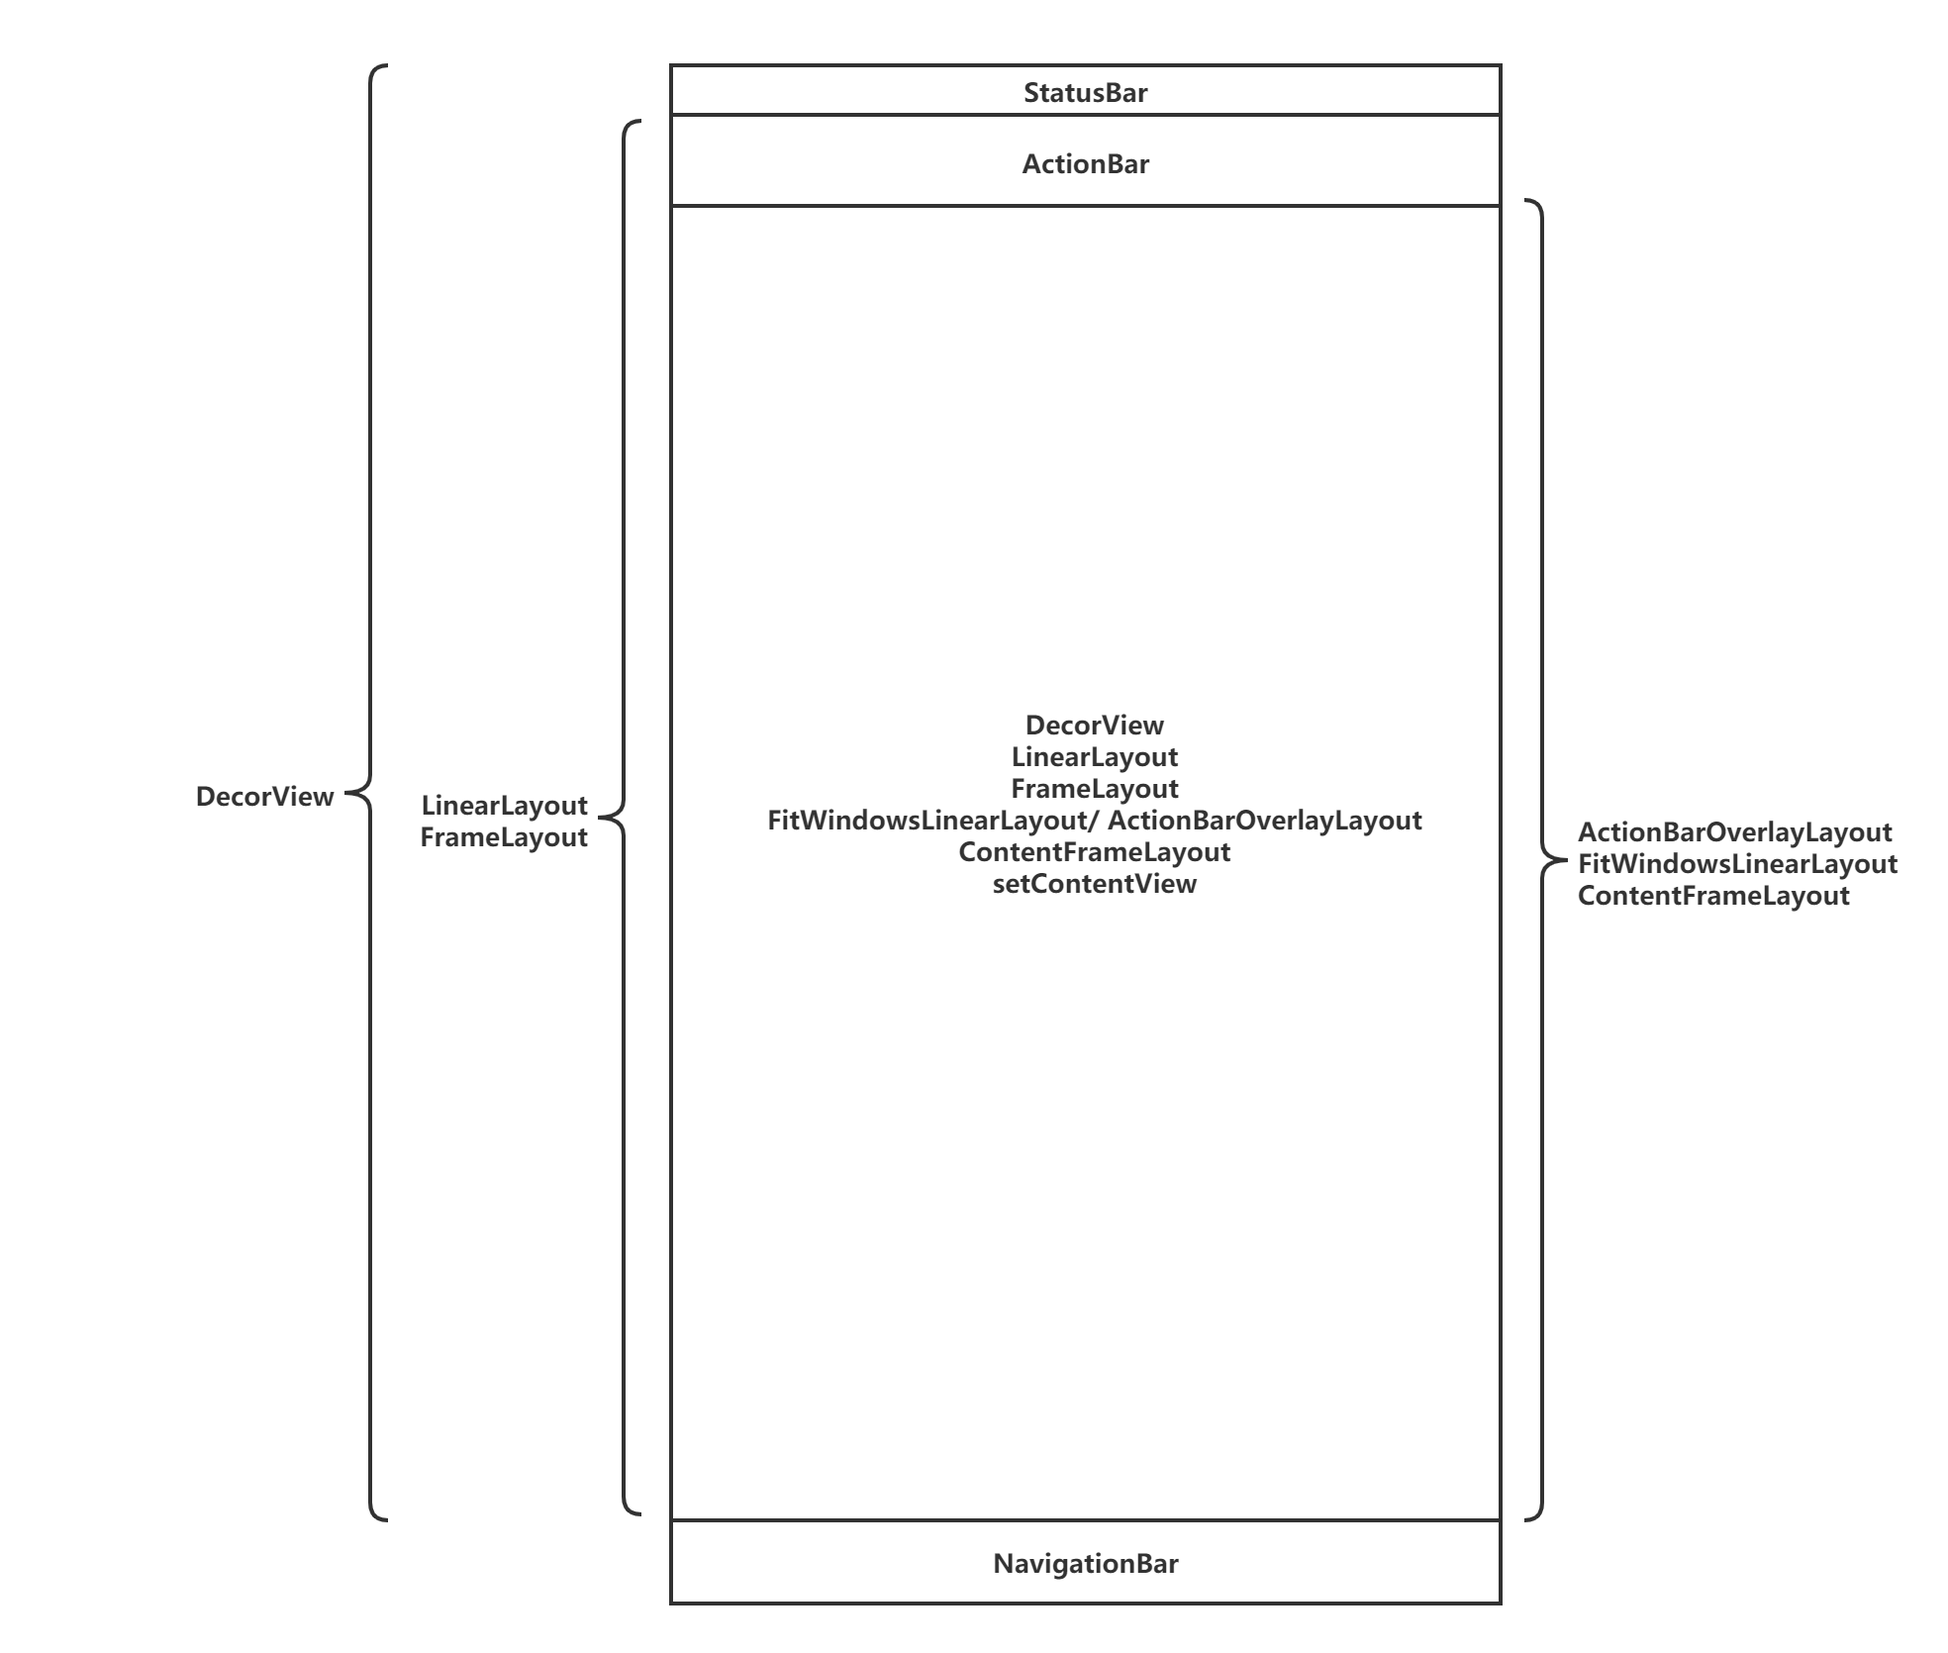
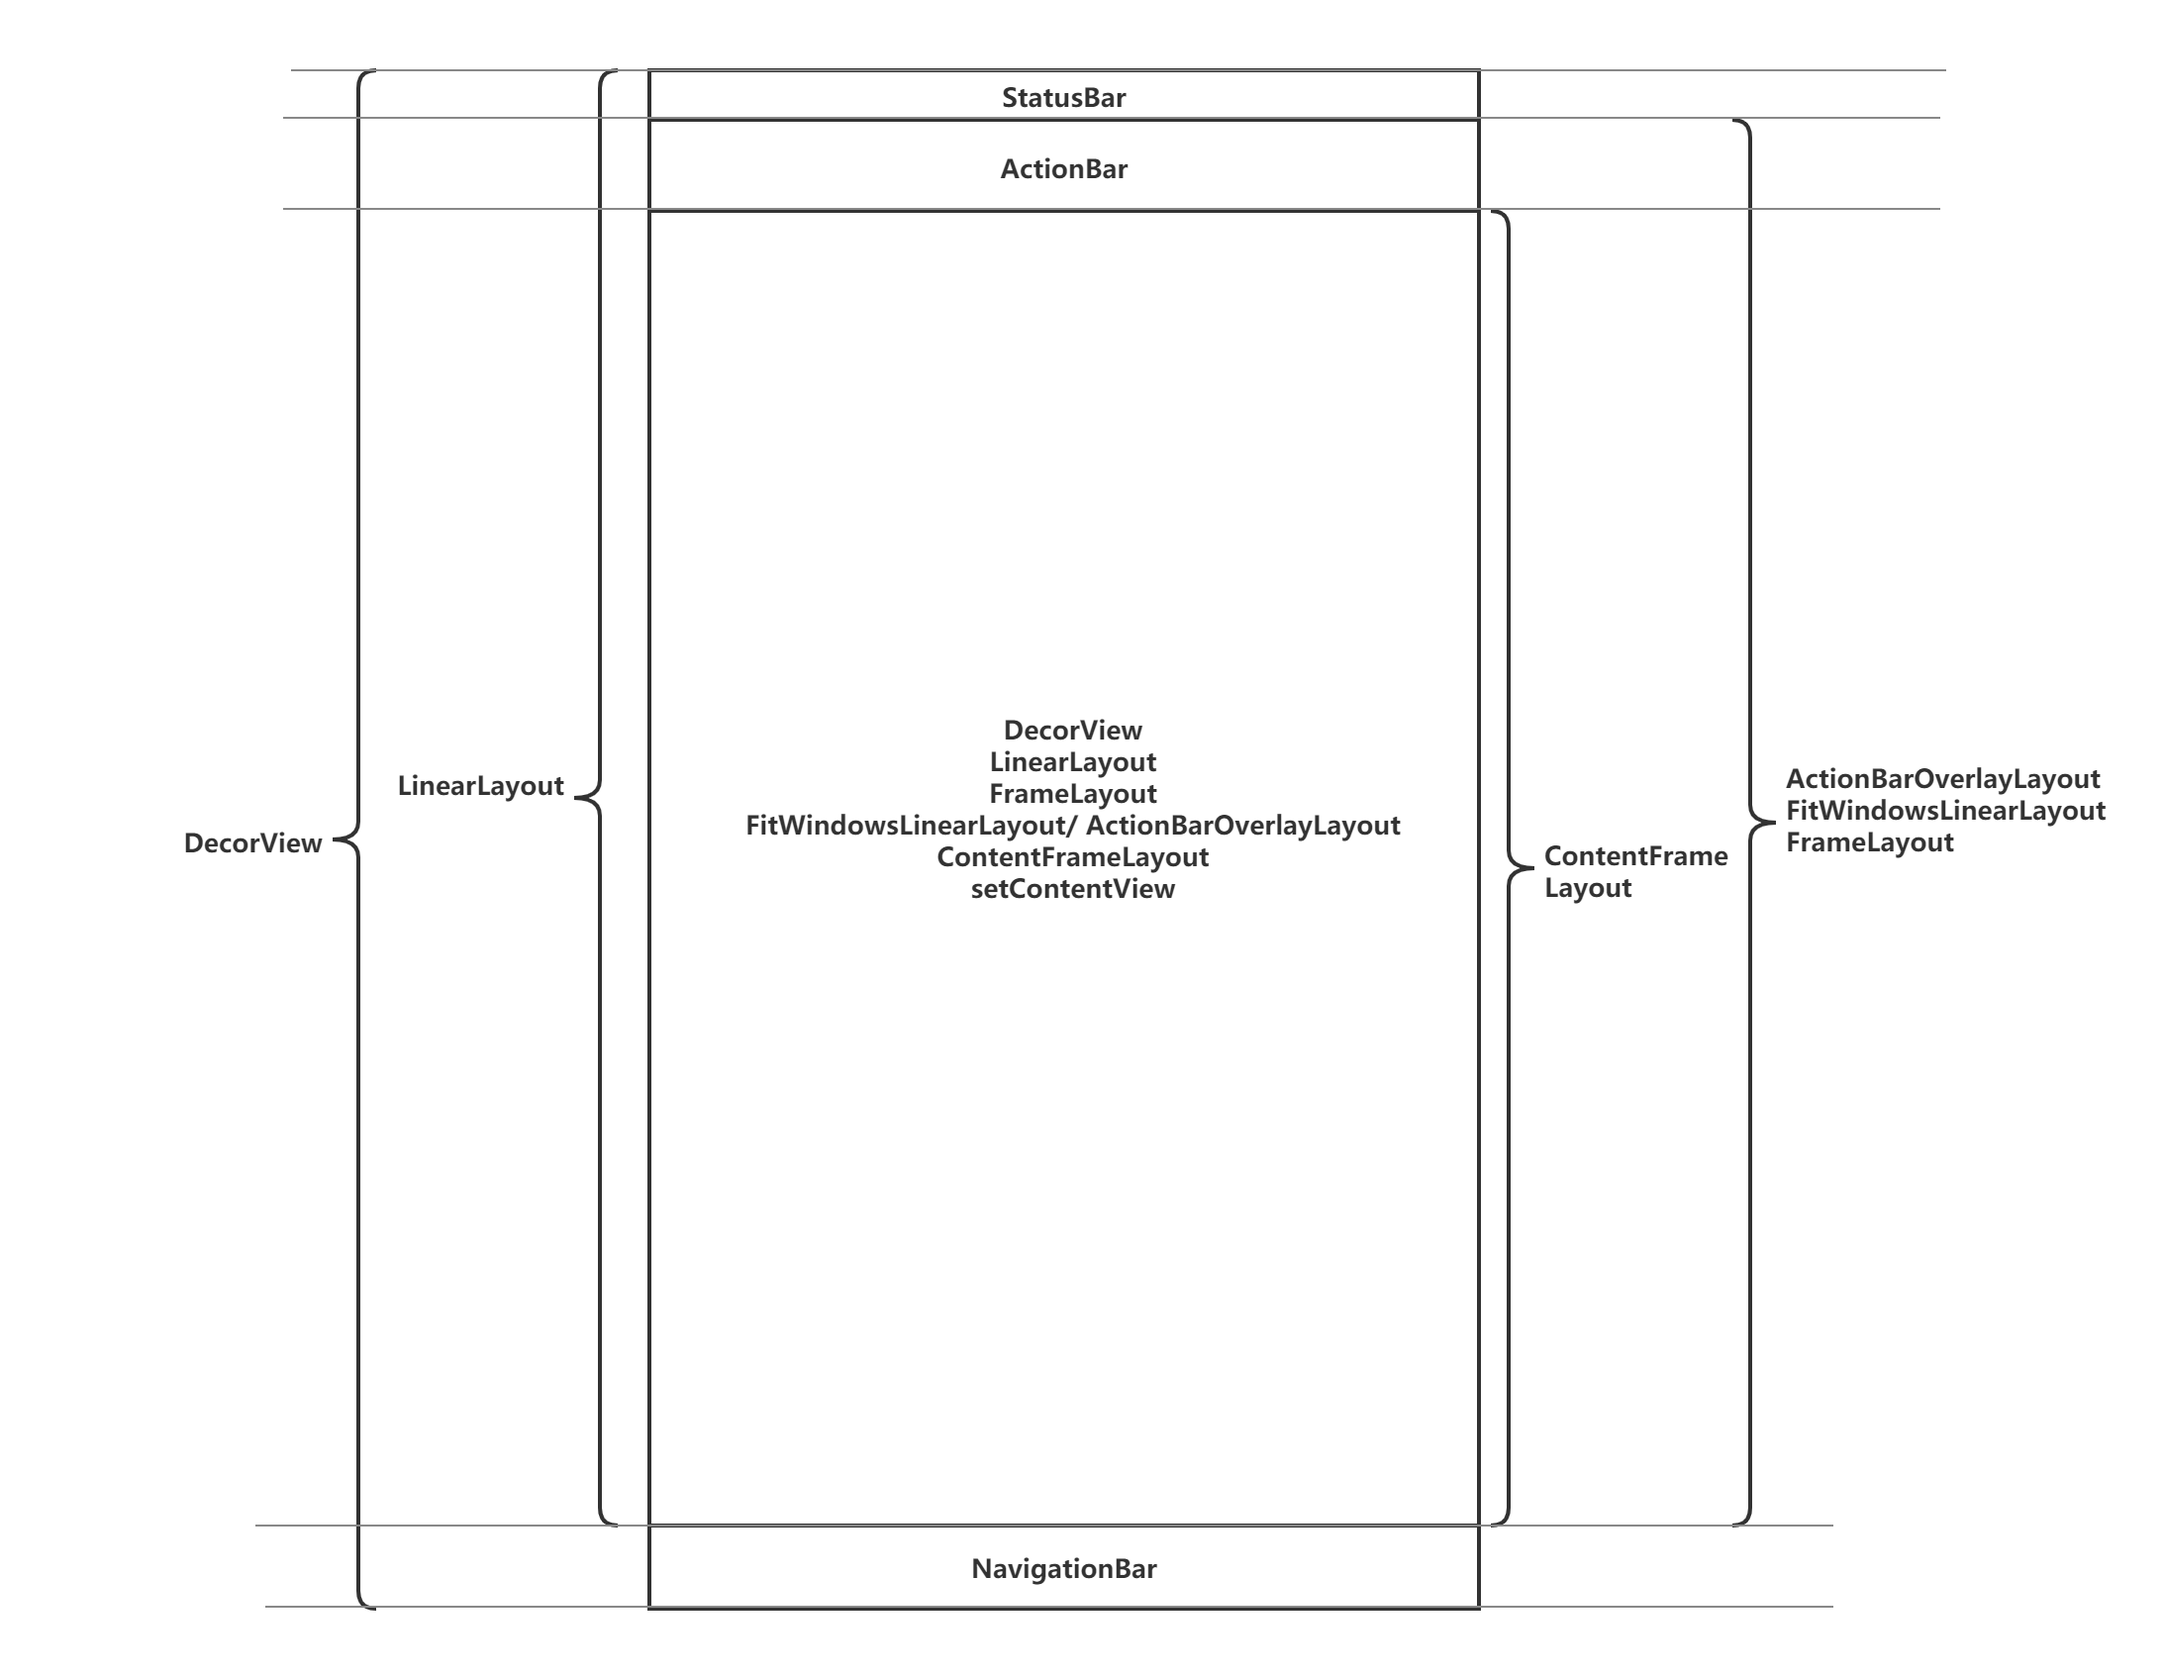
sync

diff --git a/_posts/android/面试合集/four-major-components/2021-4-27-Activity.md b/_posts/android/面试合集/four-major-components/2021-4-27-Activity.md
@@ -8,13 +8,6 @@ tags: [Android,Activity]
 ## Activity
 ![生命周期](http://hi.csdn.net/attachment/201109/1/0_1314838777He6C.gif)
 [生命周期](https://blog.csdn.net/xiajun2356033/article/details/78741121)
-* onCreate
-* setContentView
-* LifecycleObserver onCreate
-* onStart
-* onPostCreate
-* activeCou
-* onResume
 
 ## 关于Application.activityLifecycleCallbacks.onCreate  Lifecycle.onCreate 和 MyAcitivity.onCreate 的调用顺序
 
@@ -68,18 +61,20 @@ Activity.performCreate{
 
 ```
 
-## Activity 视图层
+## Activity 视图层级结构
 
 ![Activity 视图层](https://github.com/ooftf/ooftf.github.io/blob/master/images/AndroidViewLayer.png?raw=true)
 
-* Activity.setContentView
-* androidx.appcompat.widget.ContentFrameLayout
-* androidx.appcompat.widget.ActionBarOverlayLayout/androidx.appcompat.widget.FitWindowsLinearLayout
-  
-  如果有ActionBar 就会使用 ActionBarOverlayLayout ，如果没有 ActionBar 使用的是 FitWindowsLinearLayout
-* android.widget.FrameLayout
-* android.widget.LinearLayout
-* com.android.internal.policy.DecorView
+#### Android 10 1440*3200 小米手机 展示 NavigationBar 状态下
+|名字|坐标|描述|
+|--|--|--|
+|ContentFrameLayout|[0,333][1440,3048]|android.R.id.content|
+|ActionBarOverlayLayout|[0,137][1440,3048]|ActionBar 主题|
+|FitWindowsLinearLayout|[0,137][1440,3048]|NoActionBar 主题|
+|FrameLayout|[0,137][1440,3048]|
+|LinearLayout|[0,0]  [1440,3048]|
+|DecorView|[0,0]  [1440,3200]|
+|android.view.ViewRootImpl||
 
 #### 启动模式
 1. standard

diff --git a/_posts/temp.md b/_posts/temp.md
@@ -1,0 +1,16 @@
+Android 10 1080*2340 模拟器
+ContentFrameLayout            [0,180][1080,2232]
+ActionBarOverlayLayout        [0,54] [1080,2232]
+FrameLayout                   [0,54] [1080,2232]
+LinearLayout                  [0,0]  [1080,2232]
+DecorView                     [0,0]  [1080,2340]
+ViewRootImpl
+
+#### Android 10 1440*3200 小米手机 展示NavigationBar
+
+ContentFrameLayout         [0,333][1440,3048]
+ActionBarOverlayLayout     [0,137][1440,3048]    FitWindowsLinearLayout[0,137][1440,3048]
+FrameLayout                [0,137][1440,3048]
+LinearLayout               [0,0]  [1440,3048]
+DecorView                  [0,0]  [1440,3200]
+android.view.ViewRootImpl
